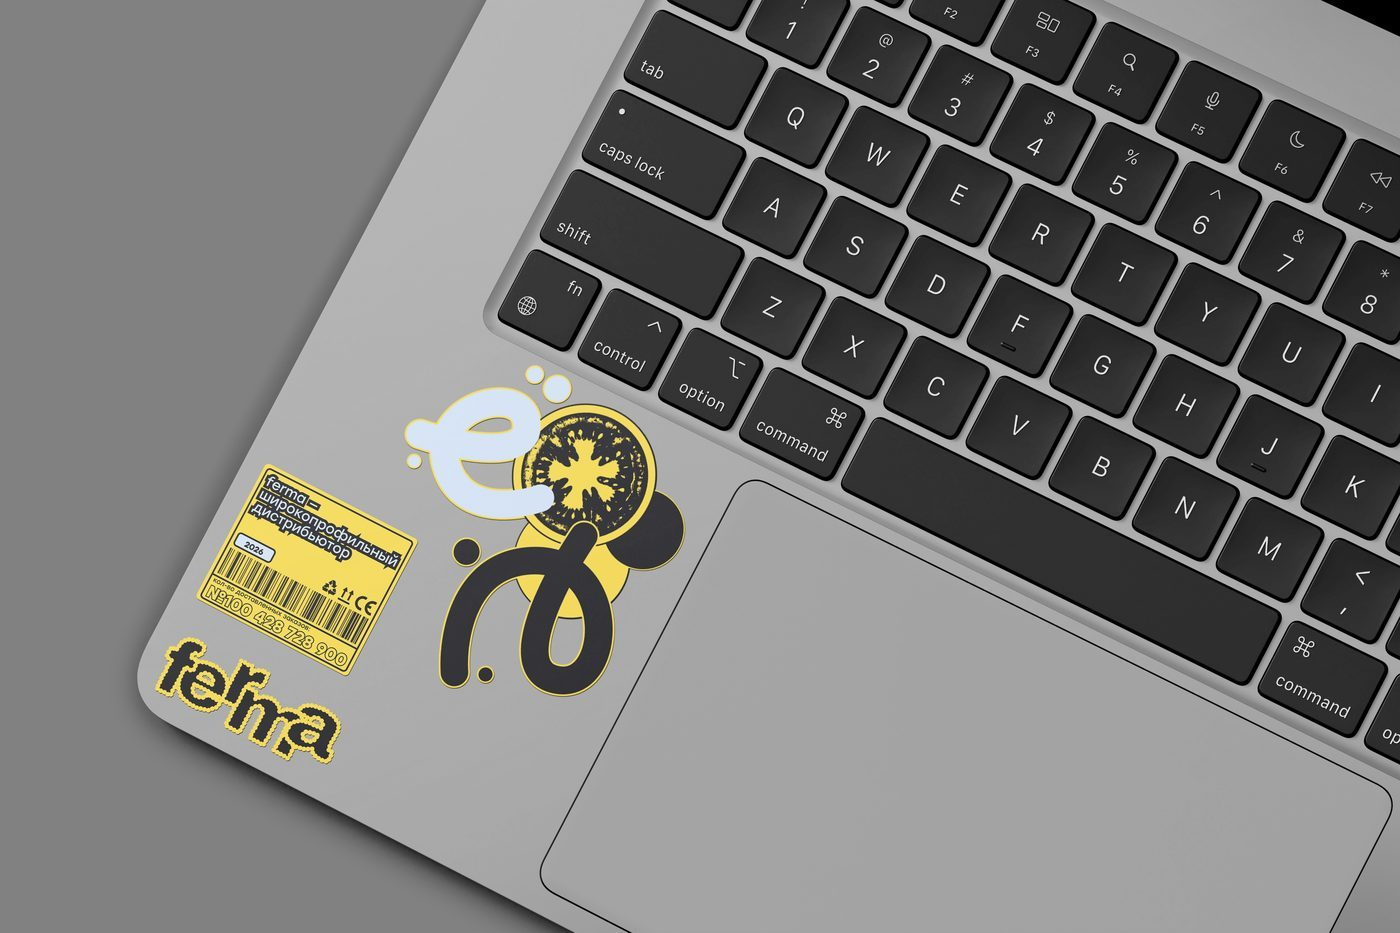
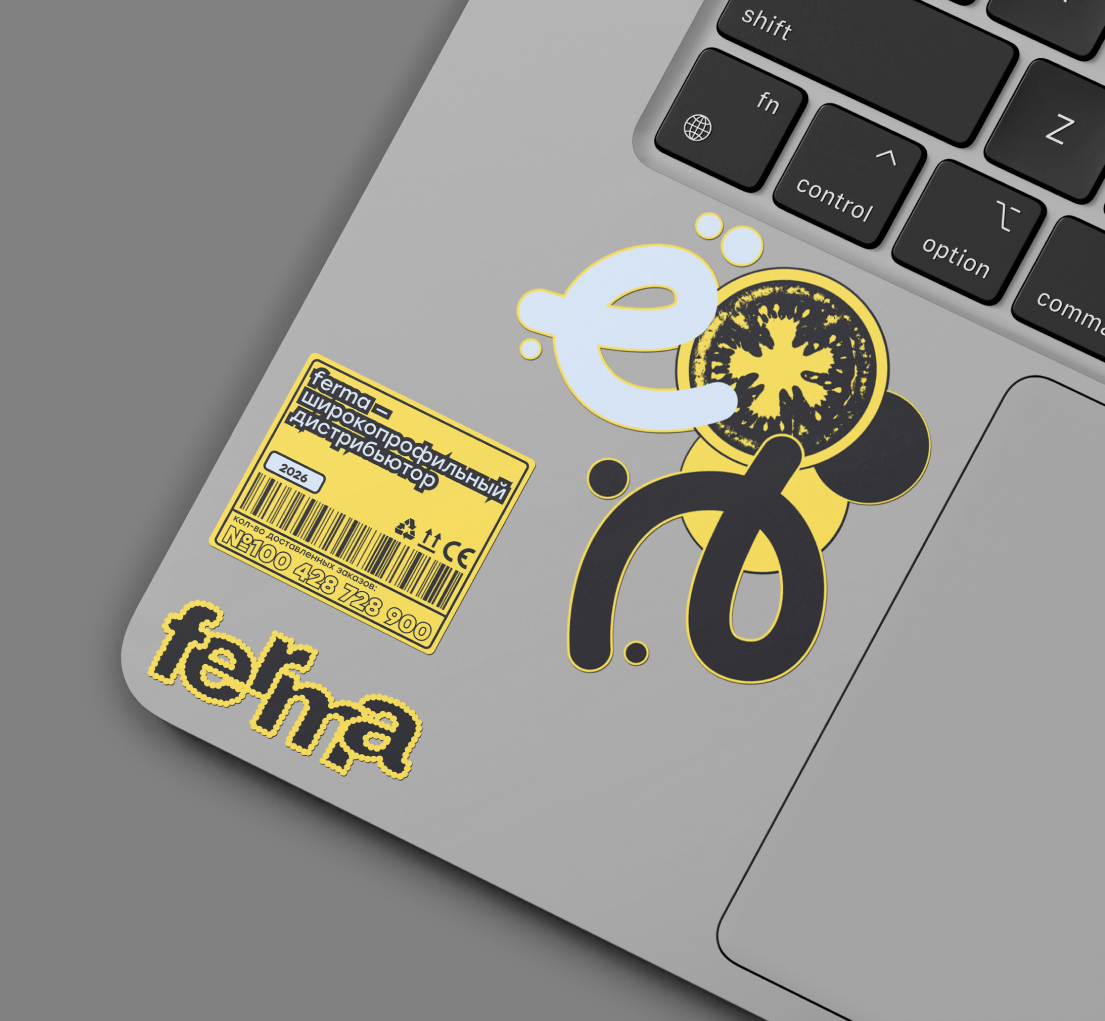
edits

diff --git a/js/events-board.js b/js/events-board.js
@@ -1,28 +1,4 @@
-const EVENT_HOVER_IMAGES = {
-    podium: 'assets/img/events/bg-podium-hover.svg',
-    festival: 'assets/img/events/bg-fest-hover.svg',
-    zine: 'assets/img/events/bg-zine-hover.svg',
-    lecture: 'assets/img/events/bg-lec-hover.svg',
-    masterclass: 'assets/img/events/bg-master-hover.svg',
-    poster: 'assets/img/events/bg-web-hover.svg',
-};
-
-function enableCardHover(card) {
-    const type = [...card.classList]
-        .find((cls) => cls.startsWith('event-card--'))
-        ?.slice('event-card--'.length);
-    const hoverSrc = type && EVENT_HOVER_IMAGES[type];
-    if (!hoverSrc || card.dataset.hoverReady) return;
-    card.dataset.hoverReady = '1';
-    card.style.setProperty('--card-image-hover', `url(${hoverSrc})`);
-}
-
 function initEventsBoard() {
-    document.querySelectorAll('.event-card').forEach((card) => {
-        card.addEventListener('pointerenter', () => enableCardHover(card), { once: true });
-        card.addEventListener('focusin', () => enableCardHover(card), { once: true });
-    });
-
     document.querySelectorAll('.event-card[data-event-id]').forEach((card) => {
         card.addEventListener('click', (e) => {
             if (e.target.closest('.event-card__link')) return;

diff --git a/about.html b/about.html
@@ -42,11 +42,8 @@
     <div class="nav-overlay" aria-hidden="true"></div>
     <section class="header-section-about">
         <div class="info-about-title">
-            <picture class="info-about-title__banner-wrap">
-                <source media="(max-width: 430px)" srcset="assets/img/banners/about-banner-430.svg">
-                <source media="(max-width: 768px)" srcset="assets/img/banners/about-banner-768.svg">
-                <img src="data:," alt="" width="1" height="1" decoding="async">
-            </picture>
+            <img class="info-about-title__banner info-about-title__banner--768" src="assets/img/banners/about-banner-768.svg" alt="">
+            <img class="info-about-title__banner info-about-title__banner--430" src="assets/img/banners/about-banner-430.svg" alt="">
         </div>
         <div class="info-text">
             <h6 class="stroke-text stroke-text--about-first-type"
@@ -69,10 +66,7 @@
             <span>ПОДРОБНЕЕ О НАШЕЙ РАБОТЕ</span>
         </div>
     </div>
-    <section class="zine-info lazy-bg"
-        data-bg="assets/img/backgrounds/zine-info-bg.svg"
-        data-bg-768="assets/img/backgrounds/zine-info-bg-768.svg"
-        data-bg-430="assets/img/backgrounds/zine-info-bg-430.svg">
+    <section class="zine-info">
         <h5 class="stroke-text stroke-text--about-third-type" data-text="Об аналитике в&nbsp;дистрибьюторстве"
             id="zine-title-theme-1">
             <span>Об аналитике в&nbsp;дистрибьюторстве</span>
@@ -116,10 +110,7 @@
             Наши другие странички тут!
         </div>
     </section>
-    <section class="zine-interactive lazy-bg"
-        data-bg="assets/img/backgrounds/zine-interactive-bg.svg"
-        data-bg-768="assets/img/backgrounds/zine-interactive-bg-768.svg"
-        data-bg-430="assets/img/backgrounds/zine-interactive-bg-430.svg">
+    <section class="zine-interactive">
         <div class="zine-interactive__content">
             <button type="button" class="tab yellow-tab left-tab clickable" id="zine-interactive-tab-1"
                 data-page="0" aria-label="Страница 1"></button>
@@ -150,14 +141,13 @@
     </section>
 
     <script src="js/zine-interactive.js" defer></script>
-    <script src="js/lazy-bg.js" defer></script>
     <footer>
         <div class="left-footer">
             <div class="contacts">
                 <img src="assets/img/ui/logo-footer.svg">
                 <p>[phone redacted]</p>
             </div>
-            <img src="assets/img/ui/barcode-footer.png" alt="" loading="lazy" decoding="async">
+            <img src="assets/img/ui/barcode-footer.png">
         </div>
         <div class="right-footer">
             <div class="footer-links">

diff --git a/stylesheets/styles/about.css b/stylesheets/styles/about.css
@@ -25,13 +25,8 @@ body {
     background-position: center;
 }
 
-.info-about-title__banner-wrap {
+.info-about-title__banner {
     display: none;
-    width: 100%;
-}
-
-.info-about-title__banner-wrap img {
-    display: block;
     width: 100%;
     height: auto;
 }
@@ -101,10 +96,8 @@ body {
 .zine-info {
     width: 100%;
     height: 1952px;
-    background-color: var(--color-blue);
+    background-image: url(../../assets/img/backgrounds/zine-info-bg.svg);
     background-size: contain;
-    background-repeat: no-repeat;
-    background-position: center top;
     position: relative;
 }
 
@@ -129,10 +122,7 @@ body {
 .zine-interactive {
     width: 100%;
     height: 100vh;
-    background-color: var(--color-blue);
-    background-size: cover;
-    background-repeat: no-repeat;
-    background-position: center top;
+    background-image: url(../../assets/img/backgrounds/zine-interactive-bg.svg);
     display: flex;
     justify-content: center;
     align-items: center;

diff --git a/stylesheets/adaptives/adaptive-about.css b/stylesheets/adaptives/adaptive-about.css
@@ -367,7 +367,7 @@
         background-image: none;
     }
 
-    .info-about-title__banner-wrap {
+    .info-about-title__banner--768 {
         display: block;
     }
 
@@ -421,6 +421,7 @@
     .zine-info {
         height: auto;
         aspect-ratio: 770 / 937;
+        background-image: url(../../assets/img/backgrounds/zine-info-bg-768.svg);
         background-size: 100% auto;
         overflow: visible;
     }
@@ -485,6 +486,7 @@
         height: auto;
         min-height: 0;
         aspect-ratio: 768 / 1015;
+        background-image: url(../../assets/img/backgrounds/zine-interactive-bg-768.svg);
         background-size: 100% auto;
         background-repeat: no-repeat;
         background-position: top center;
@@ -530,6 +532,14 @@
         width: 96.279vw;
 
         aspect-ratio: 414 / 596;
+    }
+
+    .info-about-title__banner--768 {
+        display: none;
+    }
+
+    .info-about-title__banner--430 {
+        display: block;
     }
 
     .info-text {
@@ -582,6 +592,7 @@
     .zine-info {
         height: auto;
         aspect-ratio: 430 / 884;
+        background-image: url(../../assets/img/backgrounds/zine-info-bg-430.svg);
         background-size: 100% auto;
         overflow: visible;
     }
@@ -664,6 +675,7 @@
         position: relative;
         z-index: 1;
         aspect-ratio: 429 / 932;
+        background-image: url(../../assets/img/backgrounds/zine-interactive-bg-430.svg);
         background-size: 100% auto;
         background-repeat: no-repeat;
         background-position: top center;

diff --git a/stylesheets/styles/events.css b/stylesheets/styles/events.css
@@ -129,22 +129,28 @@
 
 .event-card--podium {
     --card-image: url(../../assets/img/events/bg-podium.svg);
+    --card-image-hover: url(../../assets/img/events/bg-podium-hover.svg);
 }
 
 .event-card--zine {
     --card-image: url(../../assets/img/events/bg-zine.svg);
+    --card-image-hover: url(../../assets/img/events/bg-zine-hover.svg);
 }
 .event-card--festival {
     --card-image: url(../../assets/img/events/bg-fest.svg);
+    --card-image-hover: url(../../assets/img/events/bg-fest-hover.svg);
 }
 .event-card--lecture {
     --card-image: url(../../assets/img/events/bg-lec.svg);
+    --card-image-hover: url(../../assets/img/events/bg-lec-hover.svg);
 }
 .event-card--masterclass {
     --card-image: url(../../assets/img/events/bg-master.svg);
+    --card-image-hover: url(../../assets/img/events/bg-master-hover.svg);
 }
 .event-card--poster {
     --card-image: url(../../assets/img/events/bg-web.svg);
+    --card-image-hover: url(../../assets/img/events/bg-web-hover.svg);
 }
 
 .event-card--podium,